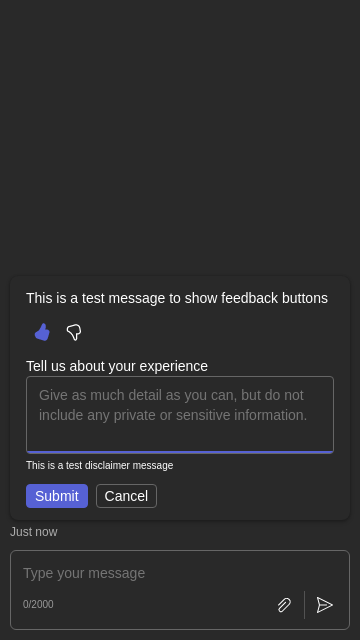
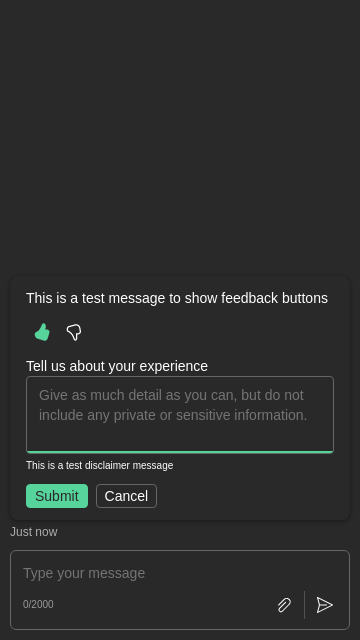
Fix dark mode

Changed region(s): [[0.0611, 0.75, 0.2444, 0.8125], [0.0917, 0.5, 0.1528, 0.5312]]

diff --git a/__tests__/html2/fluentTheme/defaultFeedback.activity.dark.html b/__tests__/html2/fluentTheme/defaultFeedback.activity.dark.html
@@ -40,22 +40,22 @@
         function renderWebChat(uiState) {
           const theme = {
             ...createDarkTheme({
-              10: '#12174c',
-              20: '#1a1f5b',
-              30: '#21276a',
-              40: '#293079',
-              50: '#303788',
-              60: '#384097',
-              70: '#4049a7',
-              80: '#151e80',
-              90: '#4f59c5',
-              100: '#5661d4',
-              110: '#5e69e3',
-              120: '#7982e8',
-              130: '#949bec',
-              140: '#afb5f1',
-              150: '#c9cdf6',
-              160: '#e4e6fa'
+              10: '#124C32',
+              20: '#1A5B3E',
+              30: '#216A4A',
+              40: '#297956',
+              50: '#308861',
+              60: '#38976D',
+              70: '#40A779',
+              80: '#158051',
+              90: '#4FC590',
+              100: '#56D49C',
+              110: '#5EE3A8',
+              120: '#79E8B7',
+              130: '#94ECC5',
+              140: '#AFF1D3',
+              150: '#C9F6E2',
+              160: '#E4FAF1'
             }),
             colorNeutralBackground1Disabled: '#101010',
             colorNeutralBackground1Hover: '#101010',

diff --git a/packages/fluent-theme/src/components/theme/Theme.module.css b/packages/fluent-theme/src/components/theme/Theme.module.css
@@ -645,7 +645,7 @@
   background-color: var(--webchat-colorBrandForeground1);
   border: var(--webchat-strokeWidthThin) solid var(--webchat-colorBrandForeground1);
   border-radius: var(--webchat-borderRadiusMedium);
-  color: #ffffff; /* Always white in dark and light mode */
+  color: var(--webchat-colorNeutralBackground1);
   cursor: pointer;
   font-family: var(--webchat-fontFamilyBase);
   font-size: var(--webchat-fontSizeBase300);
